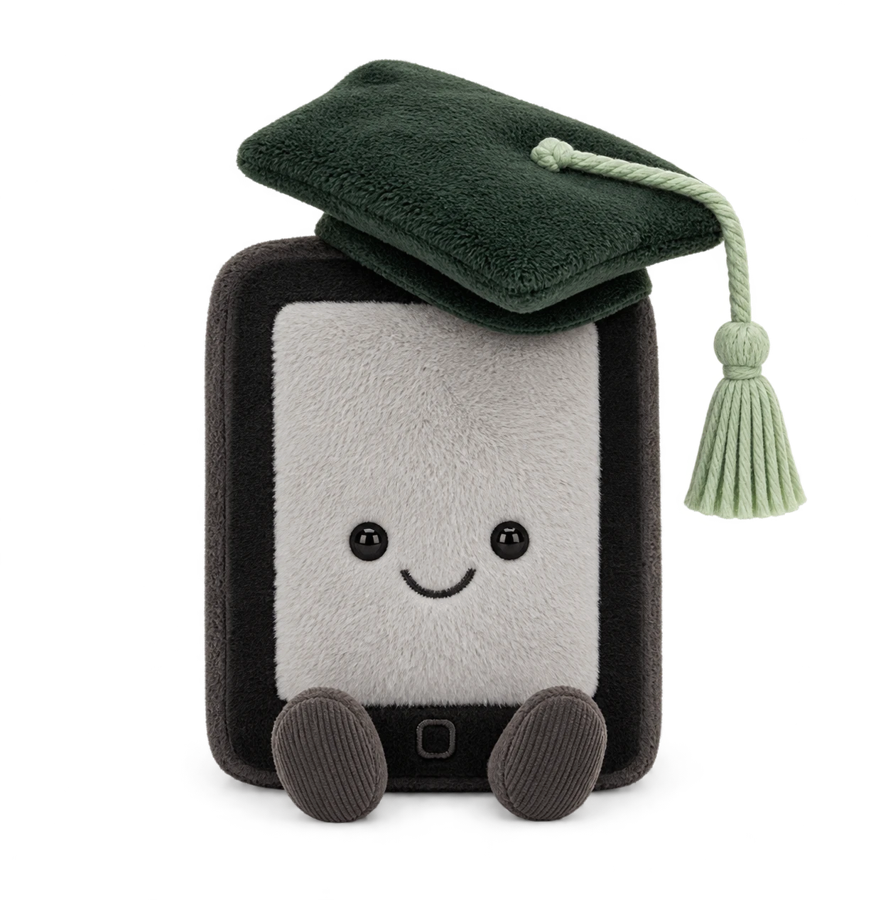
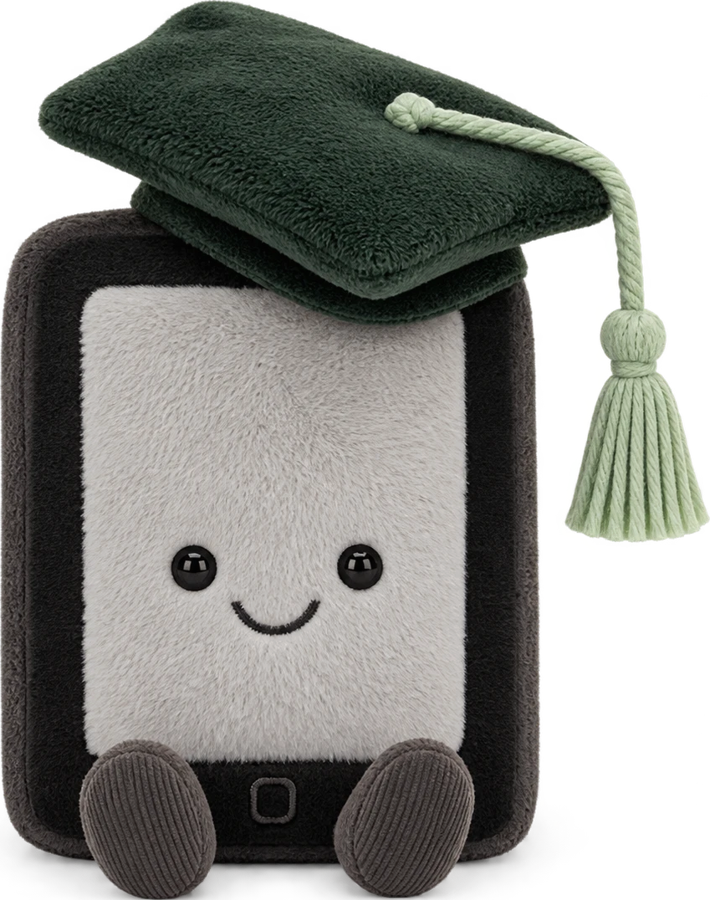
Band: legend shows counts with percents; Stan sits on the bar, head level with the headline

diff --git a/dashboard/index.html b/dashboard/index.html
@@ -56,8 +56,8 @@
 
   .band { background: var(--chalk); color: #FFFFFF; margin-top: 24px; border-radius: 28px; padding: 36px 40px 34px; display: grid; grid-template-columns: 1fr; gap: 24px; align-items: center; }
   .cbar.with-stan { margin-top: 24px; overflow: visible; }
-  .stan { position: absolute; right: 0; bottom: 10px; display: flex; align-items: center; gap: 12px; pointer-events: none; }
-  .stan img { width: 110px; height: auto; display: block; filter: drop-shadow(0 8px 16px rgba(0,0,0,0.25)); }
+  .stan { position: absolute; right: 0; bottom: 6px; display: flex; align-items: center; gap: 14px; pointer-events: none; }
+  .stan img { height: 165px; width: auto; display: block; filter: drop-shadow(0 8px 16px rgba(0,0,0,0.25)); }
   .stan .bubble { position: relative; background: #FFFFFF; color: var(--chalk); border-radius: 16px; padding: 10px 14px; font-size: 14px; font-weight: 700; line-height: 1.3; max-width: 150px; box-shadow: 0 1px 3px rgba(28,28,26,0.10); }
   .stan .bubble::after { content: ""; position: absolute; right: -9px; top: 50%; margin-top: -8px; border-width: 8px 0 8px 10px; border-style: solid; border-color: transparent transparent transparent #FFFFFF; }
   @media (max-width: 760px) { .band { grid-template-columns: 1fr; } }
@@ -283,9 +283,9 @@
       <div class="cbar with-stan" aria-label="Coverage: ${pct(H.pct)} with at least one report, ${pct(H.depth_pct["2plus"])} with two or more"><i class="f1" style="width:${Math.max(H.pct || 0, 0.4)}%"></i><i class="f2" style="width:${Math.max(H.depth_pct["2plus"] || 0, 0.25)}%"></i>
         <div class="stan"><div class="bubble">${stanSays}</div><img src="assets/stan.png?v=${encodeURIComponent(d.generated_at)}" alt="Stan, the Screens in Schools mascot"></div></div>
       <div class="legend"><span class="l">
-        <span><span class="dot" style="background:#FFFFFF"></span>2+ reports · <b>${pct(H.depth_pct["2plus"])}</b></span>
-        <span><span class="dot" style="background:#8FC49B"></span>1 report · <b>${pct(H.depth_pct["1"])}</b></span>
-        <span><span class="dot" style="background:rgba(255,255,255,0.16)"></span>none · <b>${pct(H.depth_pct["0"])}</b></span></span>
+        <span><span class="dot" style="background:#FFFFFF"></span>2+ reports · <b>${fmt(H.depth["2plus"])}</b> · ${pct(H.depth_pct["2plus"])}</span>
+        <span><span class="dot" style="background:#8FC49B"></span>1 report · <b>${fmt(H.depth["1"])}</b> · ${pct(H.depth_pct["1"])}</span>
+        <span><span class="dot" style="background:rgba(255,255,255,0.16)"></span>none · <b>${fmt(H.depth["0"])}</b> · ${pct(H.depth_pct["0"])}</span></span>
         <span>${P ? PEND : `<b>+${fmt(wkNewH)}</b> this week`}</span></div>
     </div>`;
 
